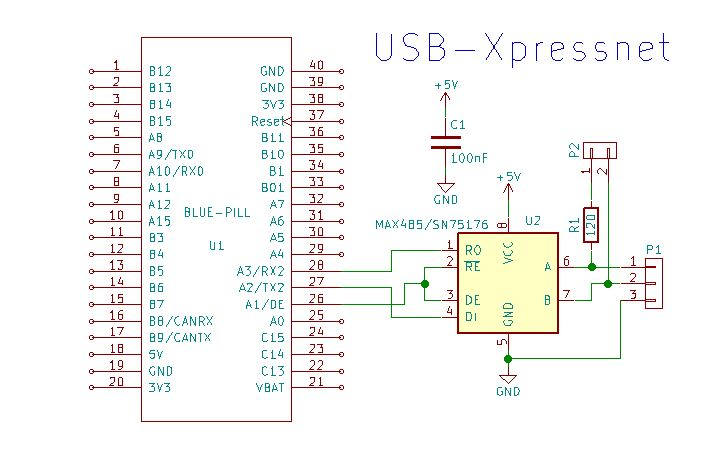
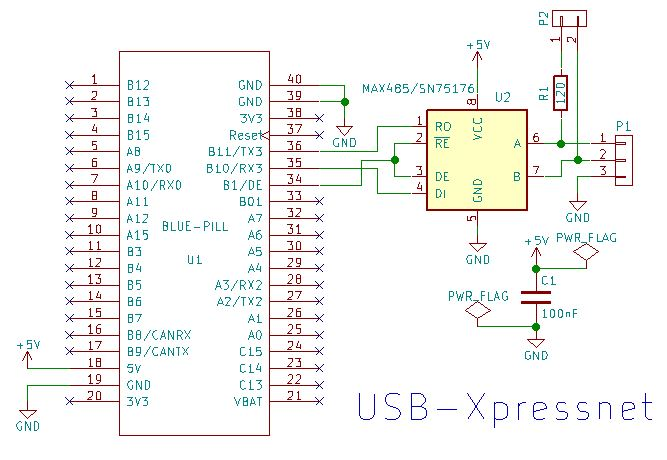
switch to USART3 - that port is 5V tolerant

diff --git a/RS485/stm32/main-stm32f103-generic.c b/RS485/stm32/main-stm32f103-generic.c
@@ -24,16 +24,16 @@
         B13                          GND
         B14                          3V3
         B15   RESET    GND    GND  RESET
-        A8    BUTTON  *BOOT1 *BOOT0  B11
-(TX0)   A9             3V3    3V3    B10
-(RX0)   A10                           B1
+        A8    BUTTON  *BOOT1 *BOOT0  B11 RX3
+(TX0)   A9             3V3    3V3    B10 TX3
+(RX0)   A10                           B1 DE
         A11                           B0
         A12                           A7
         A15                           A6
         B3       STM32F103C8T6        A5
         B4                            A4
-        B5                            A3 RX2
-        B6                            A2 TX2
+        B5                            A3
+        B6                            A2
         B7              8M            A1
         B8           32768            A0
         B9                           C15
@@ -65,7 +65,7 @@
     do { } while (0)
 #endif
 
-int de_set_first;;
+int de_set_first;
 
 static inline void gpio_really(uint32_t port, uint16_t pin, const bool set) {
     int shift = set ? 0 : 16;
@@ -73,42 +73,43 @@ static inline void gpio_really(uint32_t port, uint16_t pin, const bool set) {
 }
 
 extern struct ringb rx_ring, tx_ring;
+
 static void usart_setup(void) {
-    /* Enable the USART2 interrupt. */
-    nvic_enable_irq(NVIC_USART2_IRQ);
+    /* Enable the USART3 interrupt. */
+    nvic_enable_irq(NVIC_USART3_IRQ);
 
-    /* USART2 pins are on port A */
-    rcc_periph_clock_enable(RCC_GPIOA);
-    gpio_set_mode(GPIOA, GPIO_MODE_OUTPUT_50_MHZ, GPIO_CNF_OUTPUT_ALTFN_PUSHPULL, GPIO_USART2_TX);
-    gpio_set_mode(GPIOA, GPIO_MODE_INPUT, GPIO_CNF_INPUT_PULL_UPDOWN, GPIO_USART2_RX);
+    /* USART3 pins are on port B */
+    rcc_periph_clock_enable(RCC_GPIOB);
+    gpio_set_mode(GPIOB, GPIO_MODE_OUTPUT_50_MHZ, GPIO_CNF_OUTPUT_ALTFN_PUSHPULL, GPIO_USART3_TX);
+    gpio_set_mode(GPIOB, GPIO_MODE_INPUT, GPIO_CNF_INPUT_PULL_UPDOWN, GPIO_USART3_RX);
 
-    /* Enable clocks for USART2. */
-    rcc_periph_clock_enable(RCC_USART2);
+    /* Enable clocks for USART3. */
+    rcc_periph_clock_enable(RCC_USART3);
 
-    /* Setup USART2 parameters. */
-    usart_set_baudrate(USART2, 62500);
-    usart_set_databits(USART2, 9);
-    usart_set_stopbits(USART2, USART_STOPBITS_1);
-    usart_set_mode(USART2, USART_MODE_TX_RX);
-    usart_set_parity(USART2, USART_PARITY_NONE);
-    usart_set_flow_control(USART2, USART_FLOWCONTROL_NONE);
+    /* Setup USART3 parameters. */
+    usart_set_baudrate(USART3, 62500);
+    usart_set_databits(USART3, 9);
+    usart_set_stopbits(USART3, USART_STOPBITS_1);
+    usart_set_mode(USART3, USART_MODE_TX_RX);
+    usart_set_parity(USART3, USART_PARITY_NONE);
+    usart_set_flow_control(USART3, USART_FLOWCONTROL_NONE);
 
-    /* Enable USART2 Receive interrupt. */
-    usart_enable_rx_interrupt(USART2);
+    /* Enable USART3 Receive interrupt. */
+    usart_enable_rx_interrupt(USART3);
 
     /* Finally enable the USART. */
-    usart_enable(USART2);
+    usart_enable(USART3);
 }
 
 void usart2_isr(void) {
     gpio_really(GPIOA, GPIO5, 1);
     // usbser-rxne()
     /* Check if we were called because of RXNE. */
-    if (((USART_CR1(USART2) & USART_CR1_RXNEIE) != 0) &&
-	((USART_SR(USART2) & USART_SR_RXNE) != 0)) {
+    if (((USART_CR1(USART3) & USART_CR1_RXNEIE) != 0) &&
+	((USART_SR(USART3) & USART_SR_RXNE) != 0)) {
 
 	gpio_set(LED_RX_PORT, LED_RX_PIN);
-	uint16_t c = usart_recv(USART2);
+	uint16_t c = usart_recv(USART3);
 	if (ringb_put(&rx_ring, (uint8_t) (c >> 8) & 0x01) && ringb_put(&rx_ring, (uint8_t) (c & 0xff))) {
 	    // good,
 	} else {
@@ -123,15 +124,15 @@ void usart2_isr(void) {
 	gpio_clear(LED_RX_PORT, LED_RX_PIN);
     }
     // usbser-irq-txe()
-    if (((USART_CR1(USART2) & USART_CR1_TXEIE) != 0) &&
-	((USART_SR(USART2) & USART_SR_TXE) != 0)) {
+    if (((USART_CR1(USART3) & USART_CR1_TXEIE) != 0) &&
+	((USART_SR(USART3) & USART_SR_TXE) != 0)) {
 
 	if (ringb_depth(&tx_ring) == 0) {
 	    // turn off tx empty interrupts, nothing left to send
 	    cdcacm_arch_txirq(0, 0);
 	    ER_DPRINTF("OFF\n");
 	    // Turn on tx complete interrupts, for rs485 de
-	    USART_CR1(USART2) |= USART_CR1_TCIE;
+	    USART_CR1(USART3) |= USART_CR1_TCIE;
 	} else {
 	    /* TODO : check receiving before enabling */
 	    if (de_set_first) {
@@ -140,18 +141,18 @@ void usart2_isr(void) {
 	    }
 
 	    uint16_t c = (((ringb_get(&tx_ring) << 8) & 0x100) | ringb_get(&tx_ring));
-	    usart_send(USART2, c);
+	    usart_send(USART3, c);
 	}
     }
     // usbser-irq-txc?  rs485 is auto on some devices, but can be emulated anyway
 
-    if (((USART_CR1(USART2) & USART_CR1_TCIE) != 0) &&
-	((USART_SR(USART2) & USART_SR_TC) != 0)) {
+    if (((USART_CR1(USART3) & USART_CR1_TCIE) != 0) &&
+	((USART_SR(USART3) & USART_SR_TC) != 0)) {
 
 	ER_DPRINTF("TC");
 	// turn off the complete irqs, we're done now.
-	USART_CR1(USART2) &= ~USART_CR1_TCIE;
-	USART_SR(USART2) &= ~USART_SR_TC;
+	USART_CR1(USART3) &= ~USART_CR1_TCIE;
+	USART_SR(USART3) &= ~USART_SR_TC;
 	cdcacm_arch_pin(0, CDCACM_PIN_RS485DE, 0);
 	de_set_first = 1;
     }
@@ -191,9 +192,9 @@ void cdcacm_arch_pin(int port, enum cdcacm_pin pin, bool set) {
 void cdcacm_arch_txirq(int port, bool set) {
     (void)port;			//FIXME if you make this multi port
     if (set) {
-	usart_enable_tx_interrupt(USART2);
+	usart_enable_tx_interrupt(USART3);
     } else {
-	usart_disable_tx_interrupt(USART2);
+	usart_disable_tx_interrupt(USART3);
     }
 }
 
@@ -216,6 +217,7 @@ int main(void) {
     // IRQ timing
     rcc_periph_clock_enable(RCC_GPIOA);
     gpio_set_mode(GPIOA, GPIO_MODE_OUTPUT_50_MHZ, GPIO_CNF_OUTPUT_PUSHPULL, GPIO5);
+    rcc_periph_clock_enable(RCC_GPIOB);
     gpio_set_mode(RS485DE_PORT, GPIO_MODE_OUTPUT_50_MHZ, GPIO_CNF_OUTPUT_PUSHPULL, RS485DE_PIN);
 
     usart_setup();

diff --git a/RS485/stm32/syscfg.h b/RS485/stm32/syscfg.h
@@ -33,7 +33,7 @@ extern "C" {
 #define LED_RX_PIN GPIO13
 #define LED_TX_PORT GPIOC
 #define LED_TX_PIN GPIO13
-#define RS485DE_PORT GPIOA
+#define RS485DE_PORT GPIOB
 #define RS485DE_PIN GPIO1
 
 #ifdef	__cplusplus
